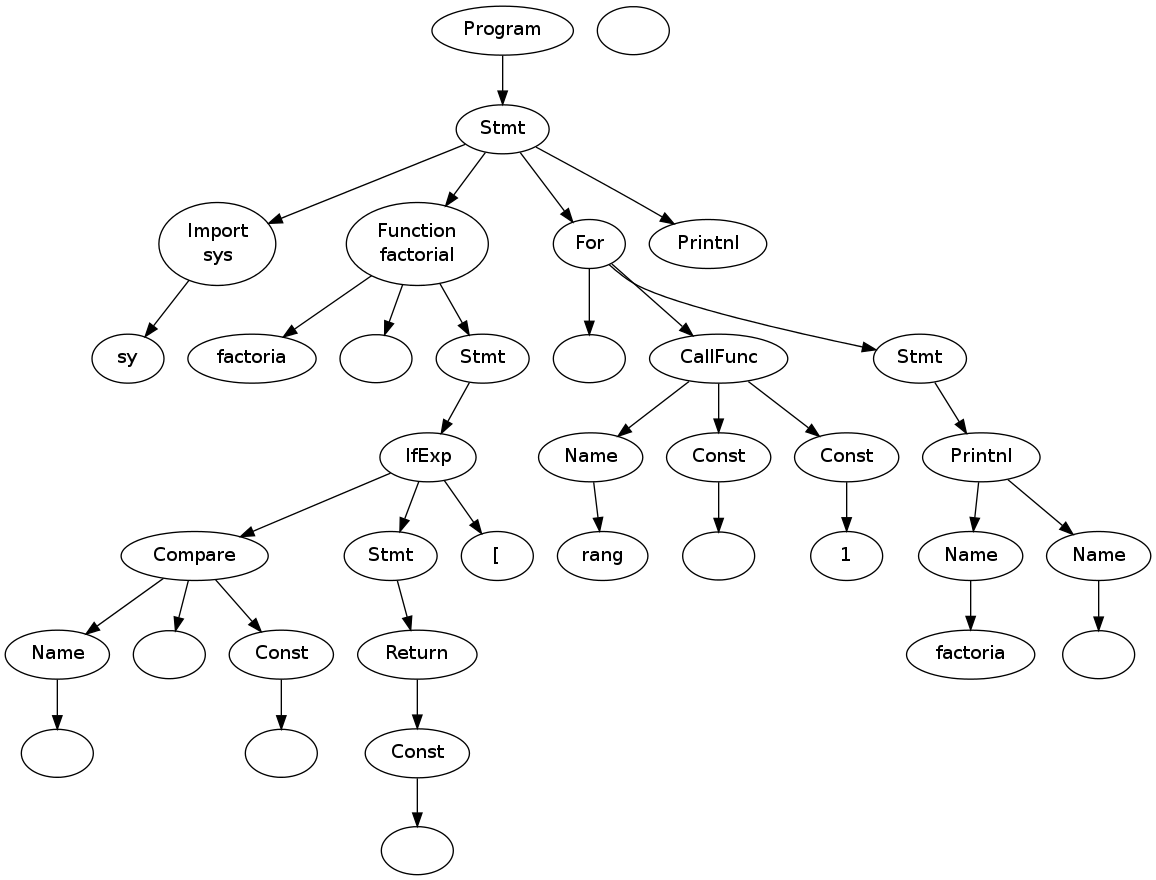
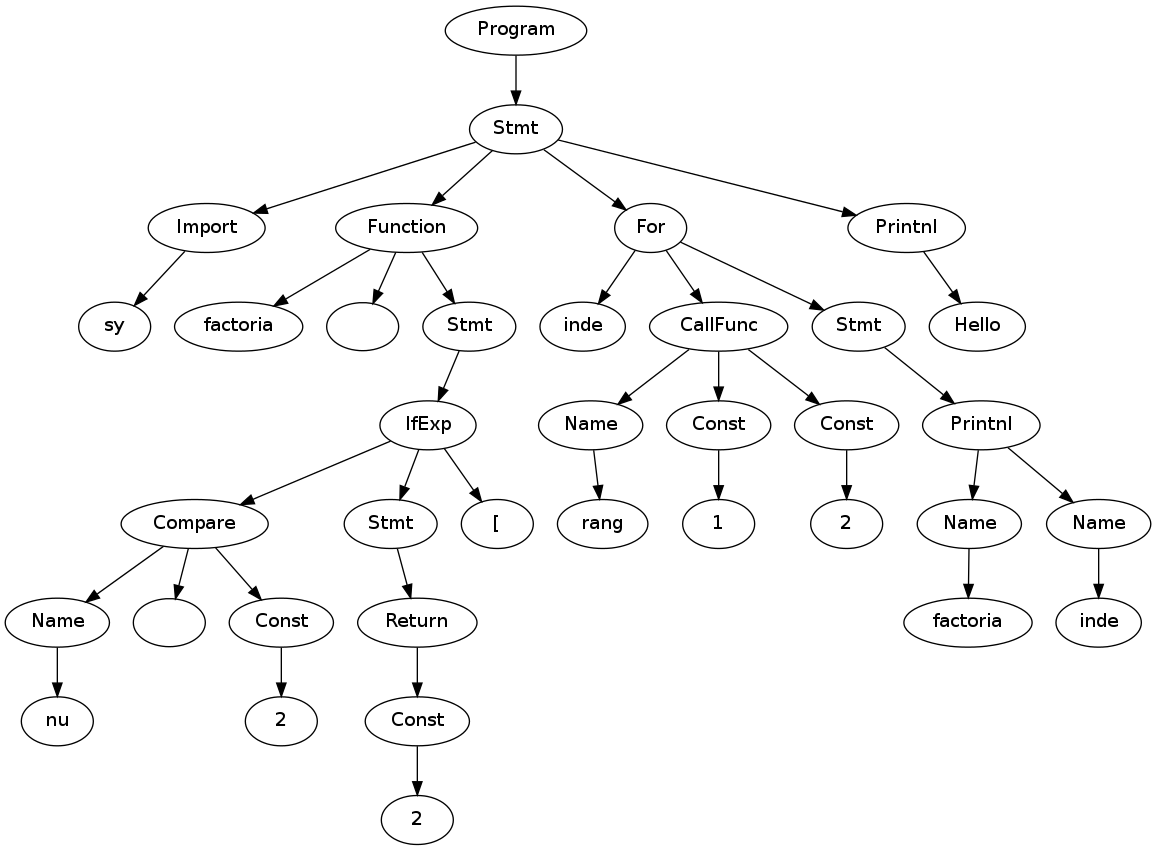
AST is not required in this. AST construction with minimal grammar is in this branch

diff --git a/src/parser.py b/src/parser.py
@@ -167,6 +167,7 @@ def p_suite(p):
         p[0] = ast.Stmt(p[1])
     else:
         p[0] = ast.Stmt(p[3])
+
     
 
 def p_stmts(p):
@@ -353,22 +354,22 @@ class G1Parser(object):
 		if mlexer is None:
 			mlexer = lexer.G1Lexer()
 		self.mlexer = mlexer
-		self.parser = yacc.yacc(start="program")
+		self.parser = yacc.yacc(start="program", debug=True)
 	def parse(self, code):
 		self.mlexer.input(code)
-		result = self.parser.parse(lexer = self.mlexer)
+		result = self.parser.parse(lexer = self.mlexer, debug=1)
 		return ast.Module(None, result)
 
 
 def getContent(x):
 	data = str(x)
 	name = data[:data.find("(")]
-	content = name
+	content = name.translate(None,'"')
 	# add more information according to above
-	if(name=="Import"):
-		content = content + "\\n" + str(x.names)
-	elif(name=="Function"):
-		content = content + "\\n" + str(x.name)
+	# if(name=="Import"):
+	# 	content = content + "\\n" + str(x.names)
+	# elif(name=="Function"):
+	# 	content = content + "\\n" + str(x.name)
 
 	return content
 

diff --git a/test/test1.py b/test/test1.py
@@ -1,11 +1,11 @@
 import sys
-def factorial(n):
-	if(n<2):
-		return 1
+def factorial (num):
+	if(num<20):
+		return 21
 	else:
-		return n*factorial(n-1)
+		return num*factorial(num-1)
 
-for i in range(1,10):
-	print factorial(i)
+for index in range(10,25):
+	print factorial(index)
 
 print "Hello"
